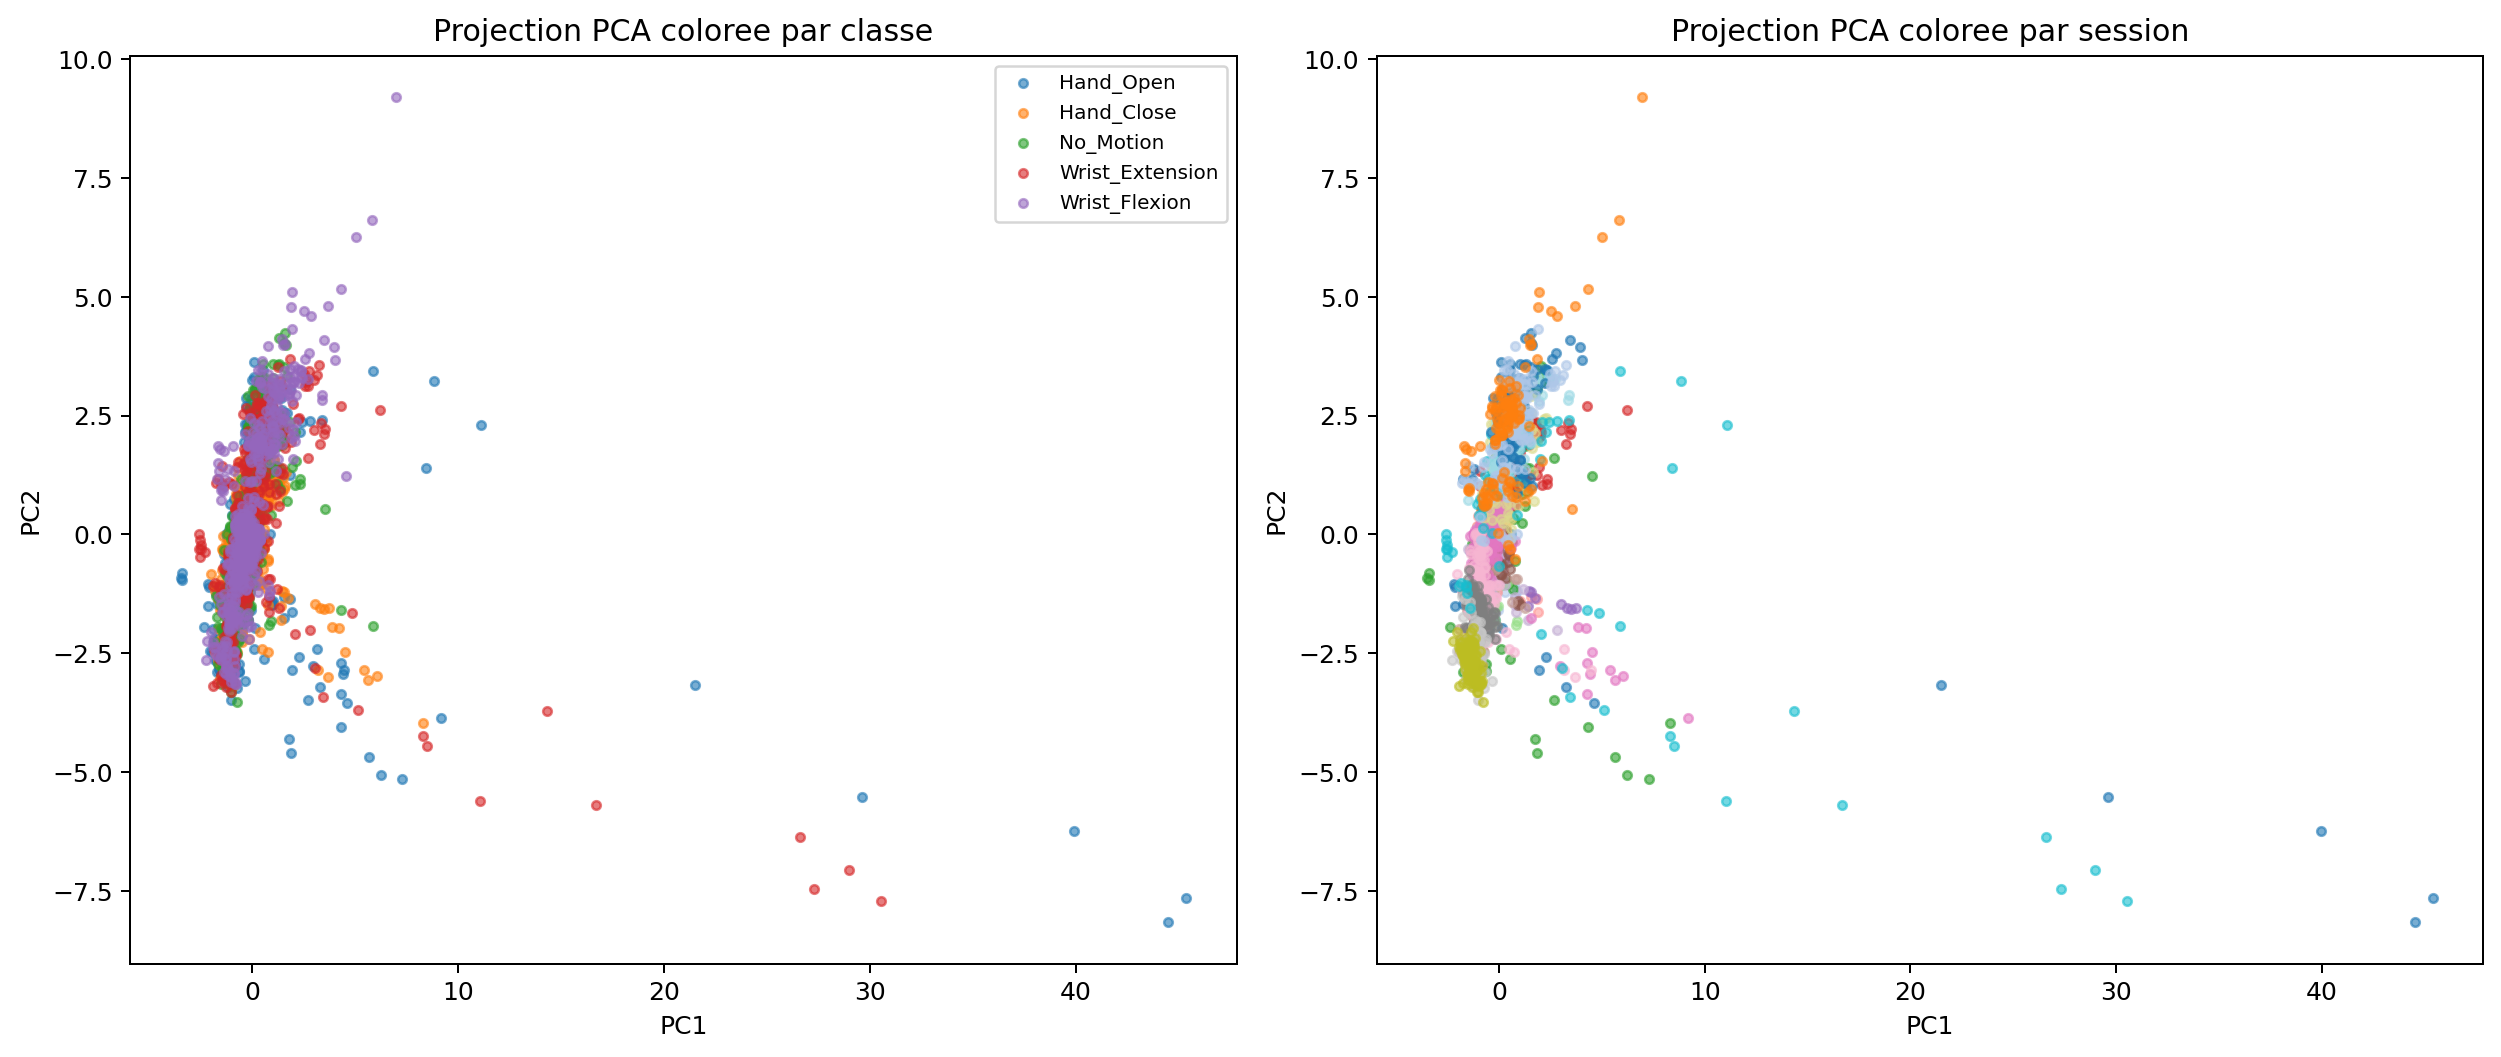
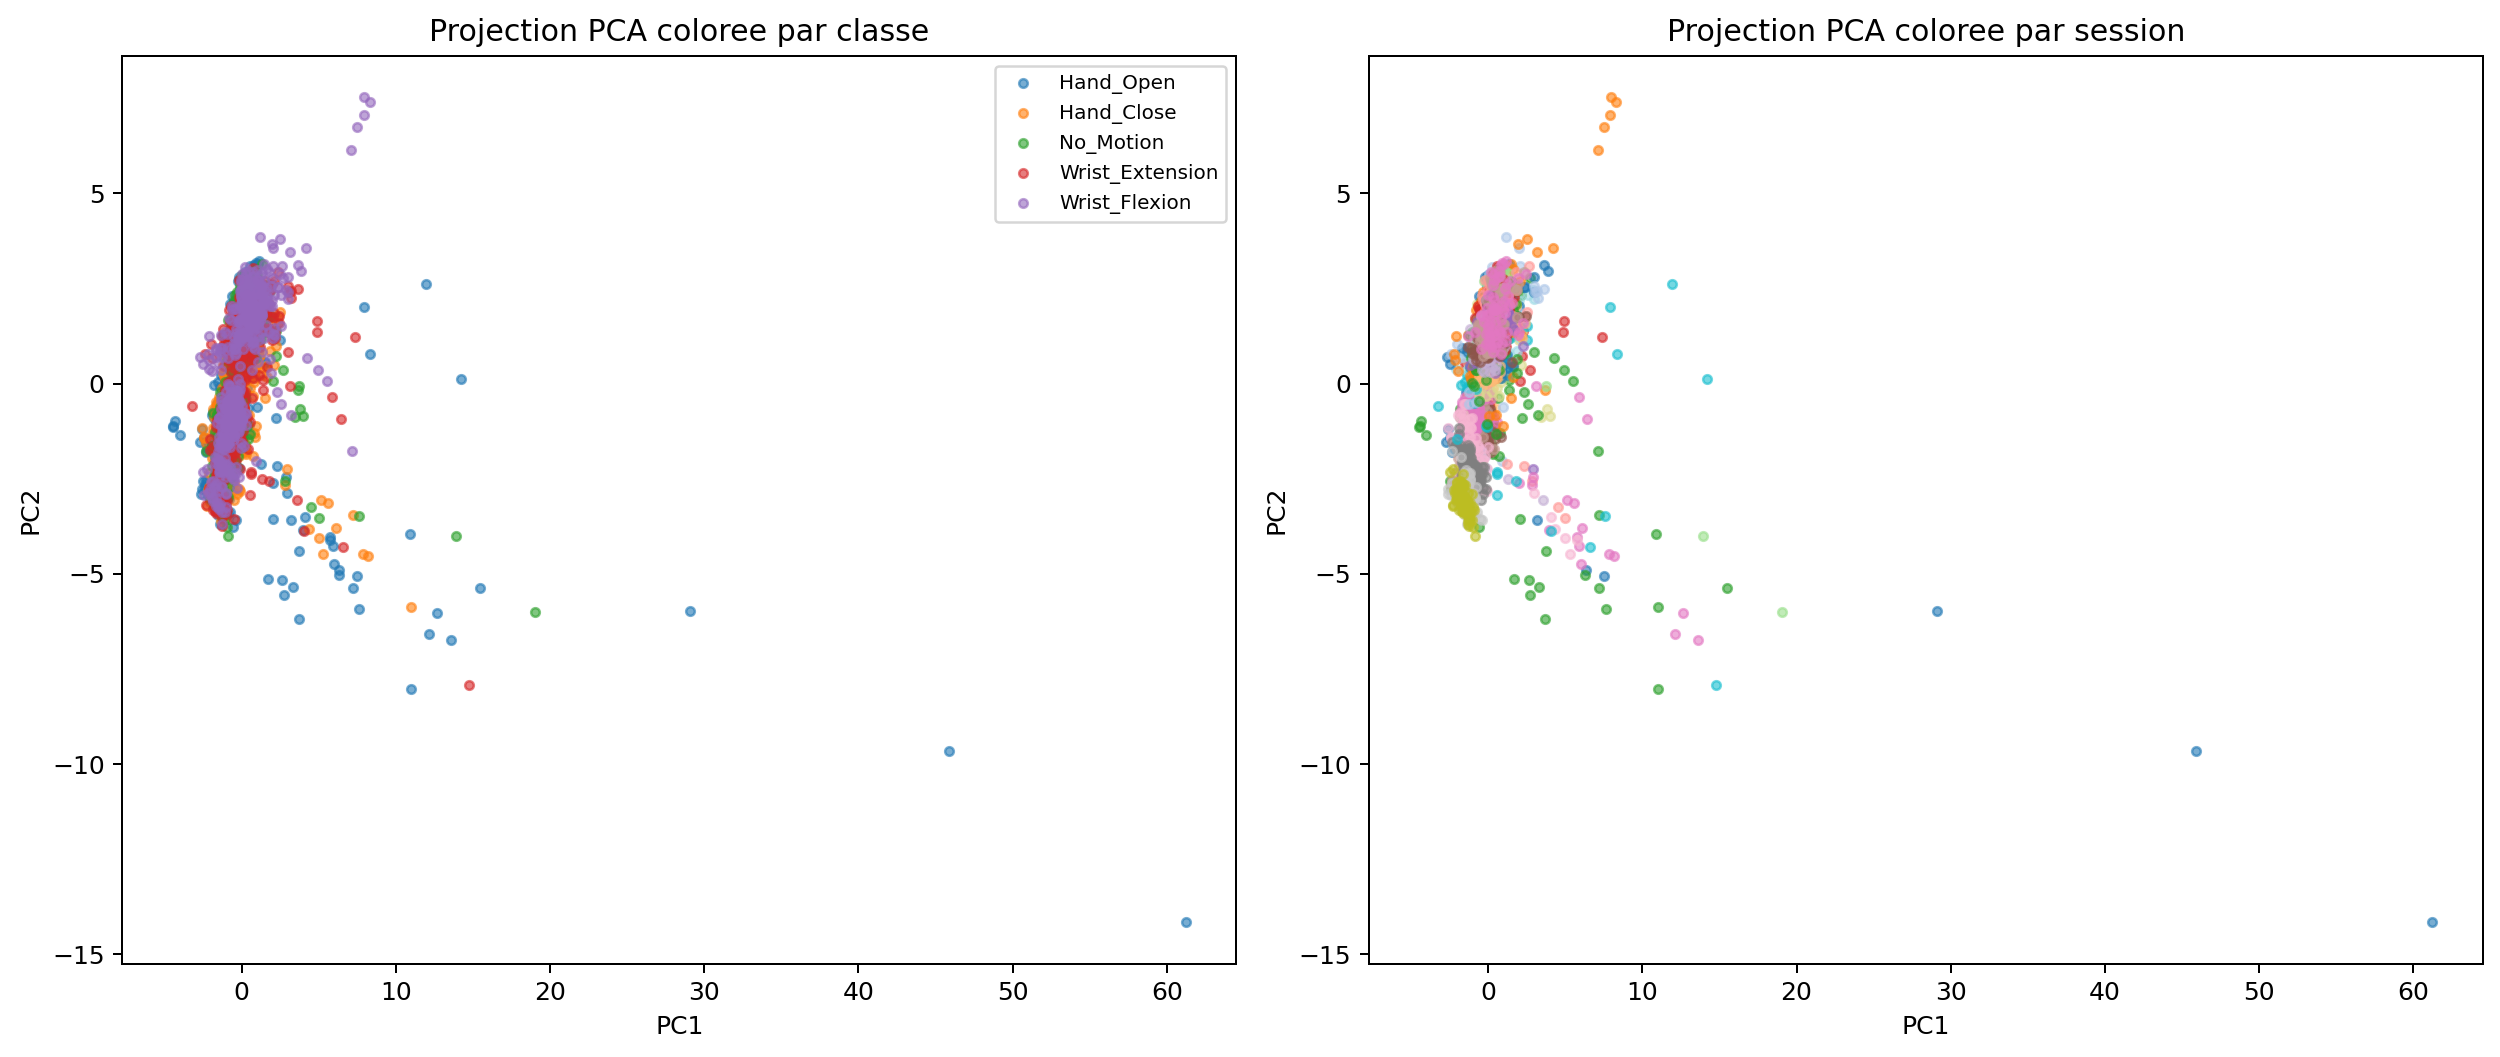
add: readme update.

diff --git a/collect/lda_offline.py b/collect/lda_offline.py
@@ -1,5 +1,6 @@
 from __future__ import annotations
 
+import argparse
 from pathlib import Path
 from typing import Any
 
@@ -520,22 +521,38 @@ def save_model(model: Pipeline, path: Path = MODEL_PATH) -> None:
     joblib.dump(model, path)
 
 
+def parse_args() -> argparse.Namespace:
+    parser = argparse.ArgumentParser(description="Entrainement offline d'un LDA EMG.")
+    parser.add_argument(
+        "--quick",
+        action="store_true",
+        help="Entraine et sauvegarde le modele sans lancer le LOSO ni la comparaison complete.",
+    )
+    return parser.parse_args()
+
+
 def main() -> None:
+    args = parse_args()
     X, y, sessions, files = build_feature_dataset()
     model, metrics = train_lda_offline(X=X, y=y, sessions=sessions, files=files)
-    loso_metrics = (
-        evaluate_leave_one_subject_out(X, y, sessions, model_builder=build_lda_model)
-        if len(np.unique(sessions)) >= 2
-        else None
-    )
-    model_comparison = (
-        evaluate_model_candidates(X, y, sessions)
-        if len(np.unique(sessions)) >= 2
-        else []
-    )
+    loso_metrics = None
+    model_comparison: list[dict[str, Any]] = []
+
+    if not args.quick:
+        loso_metrics = (
+            evaluate_leave_one_subject_out(X, y, sessions, model_builder=build_lda_model)
+            if len(np.unique(sessions)) >= 2
+            else None
+        )
+        model_comparison = (
+            evaluate_model_candidates(X, y, sessions)
+            if len(np.unique(sessions)) >= 2
+            else []
+        )
 
     print("=== Resultats LDA Offline (features EMG) ===")
     validation_mode_label = "session" if metrics["validation_mode"] in {"session", "subject"} else metrics["validation_mode"]
+    print(f"Mode rapide: {'oui' if args.quick else 'non'}")
     print(f"Validation: {validation_mode_label}")
     if metrics["validation_warning"]:
         print(f"Warning: {metrics['validation_warning']}")

diff --git a/collect/test_lda.py b/collect/test_lda.py
@@ -1,14 +1,1 @@
-from offline_model import load_model, predict
-import numpy as np
-import sys
-
-model_name = sys.argv[1] if len(sys.argv) > 1 else "svm"
-model = load_model(model_name=model_name)
-
-feature_count = int(getattr(model, "n_features_in_", 11))
-x_new = np.zeros(feature_count, dtype=np.float32)
-pred, proba = predict(model, x_new)
-
-print("Modele:", model_name)
-print("Classe prédite:", pred)
-print("Probabilités:", proba)
+from test_offline_model import *  # noqa: F401,F403

diff --git a/collect/test_offline_model.py b/collect/test_offline_model.py
@@ -1,0 +1,15 @@
+from offline_model import load_model, predict
+import numpy as np
+import sys
+
+
+model_name = sys.argv[1] if len(sys.argv) > 1 else "svm"
+model = load_model(model_name=model_name)
+
+feature_count = int(getattr(model, "n_features_in_", 11))
+x_new = np.zeros(feature_count, dtype=np.float32)
+pred, proba = predict(model, x_new)
+
+print("Modele:", model_name)
+print("Classe prédite:", pred)
+print("Probabilités:", proba)

diff --git a/collect/COLLECT_PROTOCOL.md b/collect/COLLECT_PROTOCOL.md
@@ -1,13 +1,13 @@
 # Protocole De Collecte EMG
 
 ## Objectif
-Construire un dataset offline propre pour entrainer et valider le LDA sur plusieurs sujets.
+Construire un dataset offline propre pour entrainer et valider les modeles EMG entre sessions.
 
 ## Ordre recommande
 1. Collecter `S01`
 2. Collecter `S02`
 3. Collecter `S03`
-4. Entrainer avec `collect/lda_offline.py`
+4. Entrainer avec `collect/lda_offline.py` ou `collect/svm_offline.py`
 
 ## Avant Chaque Session
 - Positionner le capteur toujours au meme endroit.
@@ -59,11 +59,47 @@ Collecte de plusieurs repetitions en commencant a `S10`:
 .\.venv\Scripts\python.exe .\collect\collect.py --subject S10 --repetitions 3
 ```
 
-Entrainement offline:
+Entrainement offline LDA complet:
 
 ```powershell
 .\.venv\Scripts\python.exe .\collect\lda_offline.py
 ```
 
+Entrainement offline LDA rapide:
+
+```powershell
+.\.venv\Scripts\python.exe .\collect\lda_offline.py --quick
+```
+
+Entrainement offline SVM complet:
+
+```powershell
+.\.venv\Scripts\python.exe .\collect\svm_offline.py
+```
+
+Entrainement offline SVM rapide:
+
+```powershell
+.\.venv\Scripts\python.exe .\collect\svm_offline.py --quick
+```
+
+Entrainement offline SVM rapide avec probabilites:
+
+```powershell
+.\.venv\Scripts\python.exe .\collect\svm_offline.py --quick --proba
+```
+
+Test de chargement d'un modele offline:
+
+```powershell
+.\.venv\Scripts\python.exe .\collect\test_offline_model.py svm
+```
+
+Ou:
+
+```powershell
+.\.venv\Scripts\python.exe .\collect\test_offline_model.py lda
+```
+
 ## Regle Pratique
-Ne passez pas au temps reel tant que la validation par sujet n'est pas disponible avec au moins `S01`, `S02` et `S03`.
+Ne passez pas au temps reel tant que la validation par session n'est pas suffisamment stable sur plusieurs collectes.

diff --git a/README.md b/README.md
@@ -52,6 +52,28 @@ pip install -r requirements.txt
 python main.py
 ```
 
+### Offline Training And Testing
+```bash
+# LDA complete evaluation
+python .\collect\lda_offline.py
+
+# LDA quick run
+python .\collect\lda_offline.py --quick
+
+# SVM complete evaluation
+python .\collect\svm_offline.py
+
+# SVM quick run
+python .\collect\svm_offline.py --quick
+
+# SVM quick run with probabilities enabled
+python .\collect\svm_offline.py --quick --proba
+
+# Load and test an offline model
+python .\collect\test_offline_model.py svm
+python .\collect\test_offline_model.py lda
+```
+
 ## 🎮 Controls for discrete actions (Mapped from EMG Signals) with pynput
 | Gesture | Action |
 |---------|--------|
